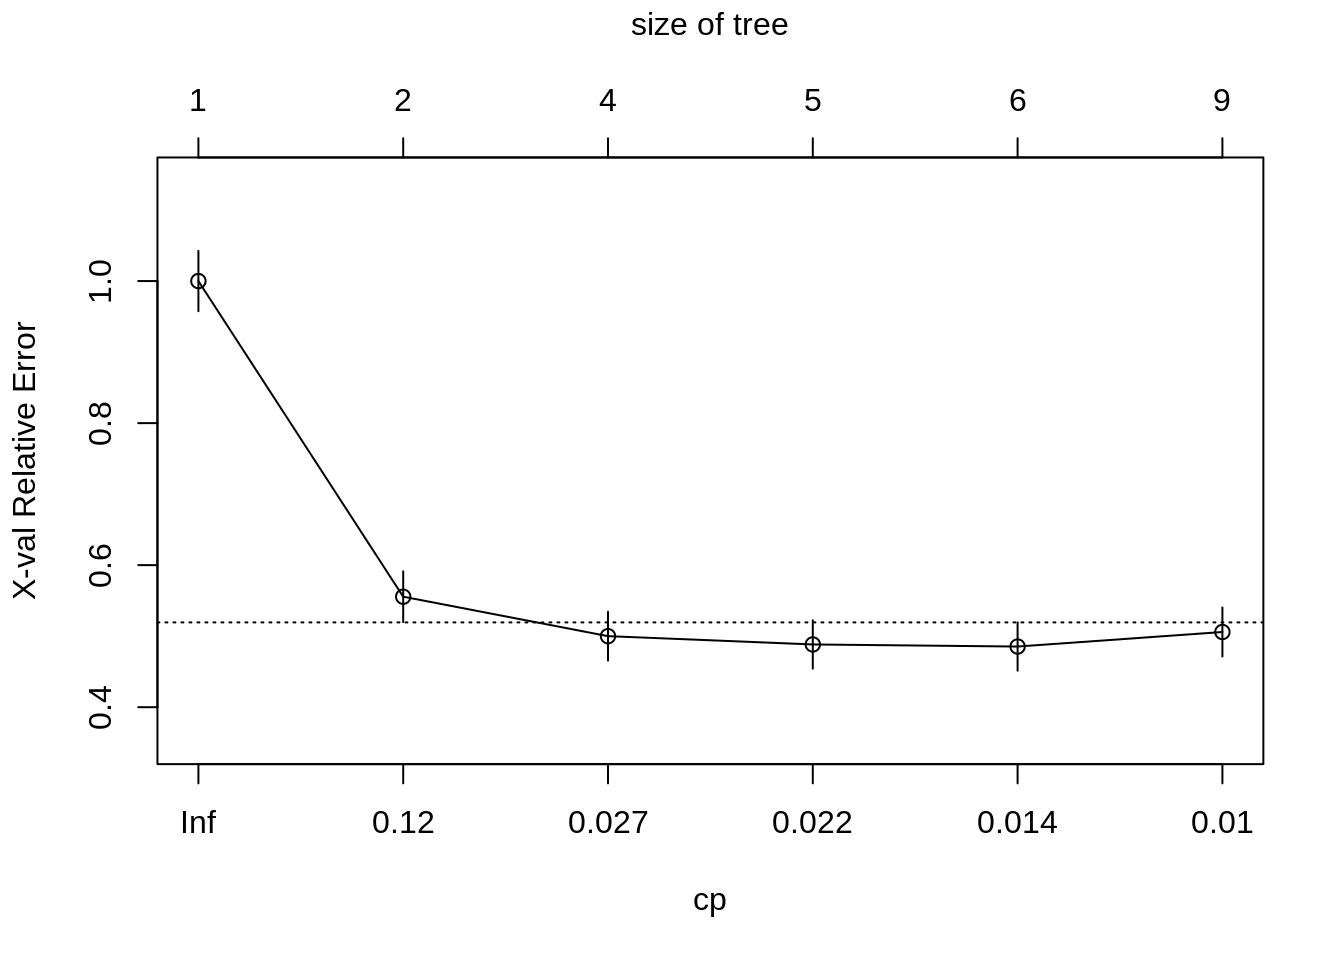
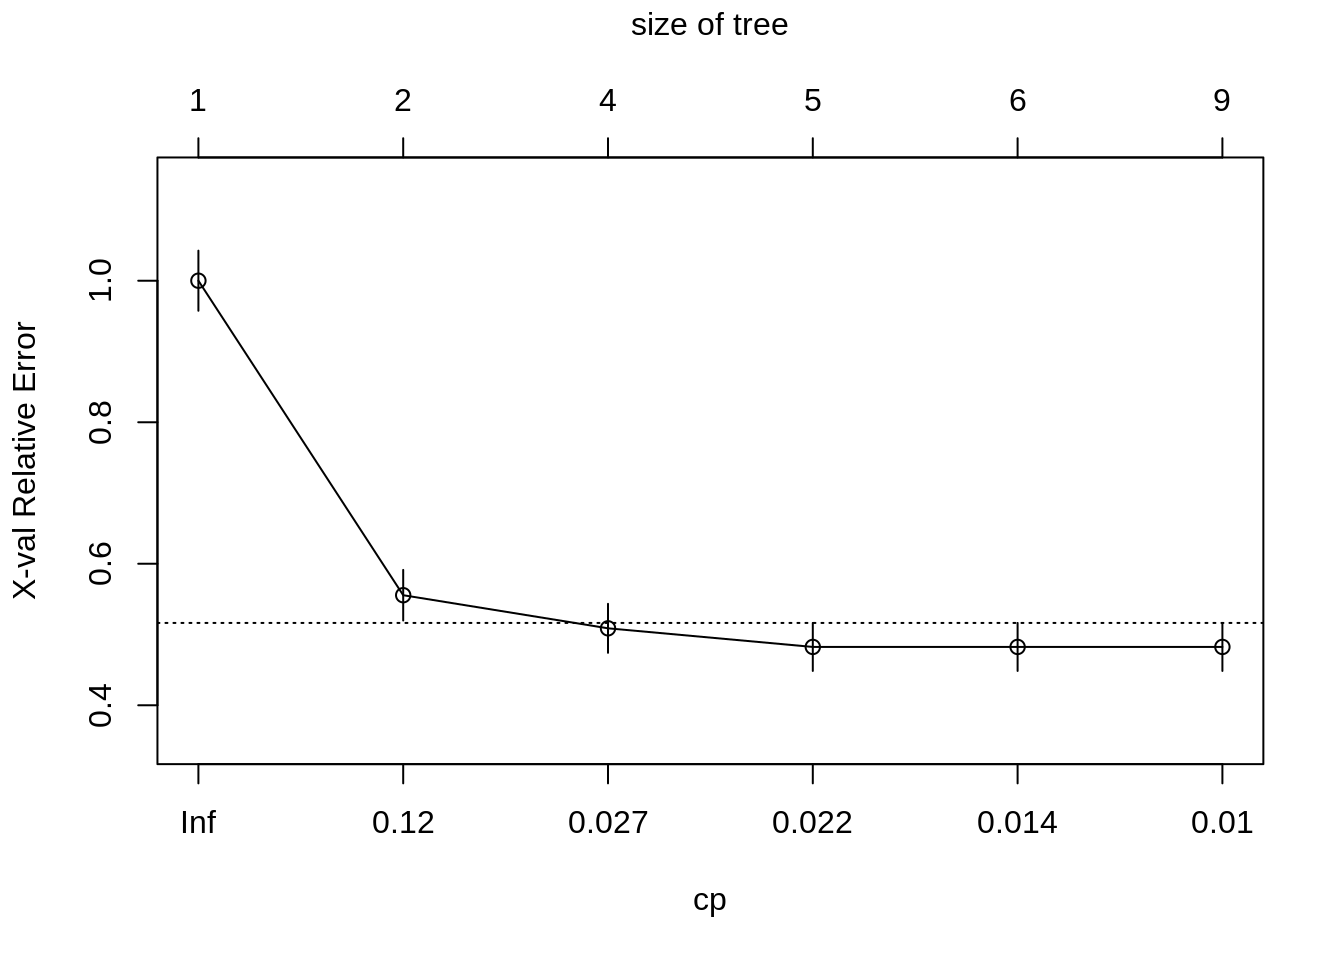
Deploy lebebr01/stat_thinking to github.com/lebebr01/stat_thinking.git:master

diff --git a/docs/classification.html b/docs/classification.html
@@ -324,10 +324,10 @@ titanic &lt;-<span class="st"> </span><span class="kw">bind_rows</span>(titanic_
 ##         CP nsplit rel error  xerror     xstd
 ## 1 0.444444      0   1.00000 1.00000 0.042446
 ## 2 0.030702      1   0.55556 0.55556 0.035750
-## 3 0.023392      3   0.49415 0.50000 0.034372
-## 4 0.020468      4   0.47076 0.48830 0.034061
-## 5 0.010234      5   0.45029 0.48538 0.033983
-## 6 0.010000      8   0.41813 0.50585 0.034524</code></pre>
+## 3 0.023392      3   0.49415 0.50877 0.034599
+## 4 0.020468      4   0.47076 0.48246 0.033904
+## 5 0.010234      5   0.45029 0.48246 0.033904
+## 6 0.010000      8   0.41813 0.48246 0.033904</code></pre>
 <div class="sourceCode"><pre class="sourceCode r"><code class="sourceCode r"><span class="kw">plotcp</span>(class_tree)</code></pre></div>
 <p><img src="05-classification_files/figure-html/unnamed-chunk-6-1.png" width="672" /></p>
 <div class="sourceCode"><pre class="sourceCode r"><code class="sourceCode r">prune_class_tree &lt;-<span class="st"> </span><span class="kw">prune</span>(class_tree, <span class="dt">cp =</span> .<span class="dv">02</span>)

diff --git a/docs/descriptive-statistics-numerically-describing-the-sample-data.html b/docs/descriptive-statistics-numerically-describing-the-sample-data.html
@@ -560,6 +560,7 @@ Y = \begin{pmatrix}10 - 24\\ 10-24\\ 20-24\\ 30-24\\ 50-24\end{pmatrix} = \begin
 <span class="st">  </span><span class="kw">df_stats</span>(<span class="op">~</span><span class="st"> </span>adm_rate, mae)</code></pre></div>
 <pre><code>##   mae_adm_rate
 ## 1    0.1692953</code></pre>
+<!-- This is a test. -->
 <!-- ## Considering Groups -->
 <!-- We've spent a lot of time trying to reason about other variables that may be important in explaining variation in our variable of interest. So far we have only explored the variable without considering other variables, in practice that is not that useful. -->
 <!-- Instead, it is common to compute conditional statistics based on other characteristics in the data. An example may help to show the idea more clearly. -->

diff --git a/docs/05-classification.md b/docs/05-classification.md
@@ -249,10 +249,10 @@ printcp(class_tree)
 ##         CP nsplit rel error  xerror     xstd
 ## 1 0.444444      0   1.00000 1.00000 0.042446
 ## 2 0.030702      1   0.55556 0.55556 0.035750
-## 3 0.023392      3   0.49415 0.50000 0.034372
-## 4 0.020468      4   0.47076 0.48830 0.034061
-## 5 0.010234      5   0.45029 0.48538 0.033983
-## 6 0.010000      8   0.41813 0.50585 0.034524
+## 3 0.023392      3   0.49415 0.50877 0.034599
+## 4 0.020468      4   0.47076 0.48246 0.033904
+## 5 0.010234      5   0.45029 0.48246 0.033904
+## 6 0.010000      8   0.41813 0.48246 0.033904
 ```
 
 ```r

diff --git a/docs/03-descriptive.md b/docs/03-descriptive.md
@@ -709,7 +709,7 @@ colleges %>%
 ```
 
 
-
+<!-- This is a test. -->
 
 <!-- ## Considering Groups -->
 <!-- We've spent a lot of time trying to reason about other variables that may be important in explaining variation in our variable of interest. So far we have only explored the variable without considering other variables, in practice that is not that useful. -->
